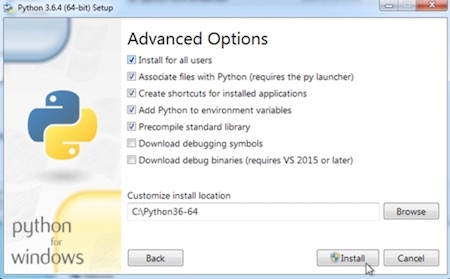
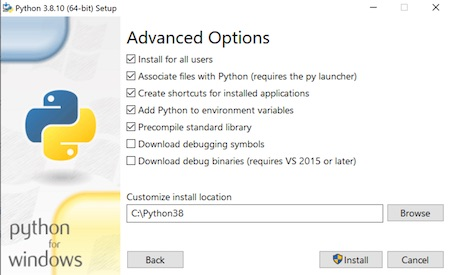
Doc: changes related to the Python version required by the app.

Changed region(s): [[0.0, 0.0, 1.0, 1.0], [0.28, 0.1164, 0.8089, 0.6109], [0.1244, 0.64, 0.1556, 0.6691]]

diff --git a/doc/build-dmt-windows.md b/doc/build-dmt-windows.md
@@ -4,10 +4,10 @@ The following procedure describes the process of building a 64-bit executable fi
 We assume that the procedure is carried out on a clean installation of the operating system, on which you have not previously installed any program used in the procedure (e.g. Python). To avoid any confusion arising from version incompatibilities, any previously installed software should be uninstalled first.
 
 ### Install *Python*
-Python version 3.6 or above is required to build DMT. Download and install Python first as follows:
+Python version 3.8 or above is required to build DMT. Download and install Python first as follows:
 * Open your preferred web browser and go to https://www.python.org/downloads/
 
-* Scroll to the *Looking for a specific release?* section and click the link corresponding to the latest release of the 3.6 version (3.6.4 at the time of writing):
+* Scroll to the *Looking for a specific release?* section and click the link corresponding to the latest release of the 3.8 version (3.8.10 at the time of writing):
 
   ![Download Python](img/build-dmt/bwin-install-python-1.jpg)
 
@@ -17,7 +17,7 @@ Python version 3.6 or above is required to build DMT. Download and install Pytho
 
 * Run the installer
 
-* Check the *Add Python 3.6 to PATH* option and select *Customize installation* link:
+* Check the *Add Python 3.8 to PATH* option and select *Customize installation* link:
 
   ![Install Python - step 1](img/build-dmt/bwin-install-python-3.jpg)
 
@@ -96,15 +96,15 @@ Open the Windows command prompt (*cmd.exe*)  and run the following commands:
 * Create a Python virtual environment for DMT:
 
   ```
-  virtualenv -p c:\Python36-64\python.exe dmt-64
+  virtualenv -p c:\Python38\python.exe dmt
   ```
 
-  The *dmt-64* directory will be created under *C:\projects\virtualenvs*
+  The *dmt* directory will be created under *C:\projects\virtualenvs*
 
 * Activate the new virtual environment:
 
   ```
-  c:\projects\virtualenvs\dmt-64\Scripts\activate.bat
+  c:\projects\virtualenvs\dmt\Scripts\activate.bat
   ```
 
 * Download the DMT source from GitHub:

diff --git a/doc/build-dmt-linux-ubuntu.md b/doc/build-dmt-linux-ubuntu.md
@@ -2,7 +2,8 @@
 
 ### Method based on physical or virtual linux machine
 
-An Ubuntu distribution with Python 3.6 is required to build DMT. This example uses Ubuntu 17.10, which comes with an appropriate version installed by default. You can verify the Python version by typing:
+An Ubuntu distribution with Python 3.8 is required to build DMT. This example uses Ubuntu 18.04, which comes with an 
+appropriate version installed by default. You can verify the Python version by typing:
 
 ```
 python3 --version
@@ -10,20 +11,20 @@ python3 --version
 
 You should see a response similar to the following:
 
-  `Python 3.6.4`
+  `Python 3.8.x`
 
 After making sure that you have the correct Python version, execute the following commands from the terminal:
 
 ```
 [dmt@ubuntu /]# sudo apt-get update
 [dmt@ubuntu /]# sudo apt-get -y upgrade
-[dmt@ubuntu /]# sudo apt-get -y install libudev-dev libusb-1.0-0-dev libfox-1.6-dev autotools-dev autoconf automake libtool libpython3-all-dev python3.6-dev python3-pip git cmake
+[dmt@ubuntu /]# sudo apt-get -y install libudev-dev libusb-1.0-0-dev libfox-1.6-dev autotools-dev autoconf automake libtool libpython3-all-dev python3.8-dev python3-pip git cmake
 [dmt@ubuntu /]# sudo pip3 install virtualenv
 [dmt@ubuntu /]# sudo pip3 install --upgrade pip
 [dmt@ubuntu /]# cd ~
 [dmt@ubuntu /]# mkdir dmt && cd dmt
-[dmt@ubuntu /]# virtualenv -p python3.6 venv
-[dmt@ubuntu /]# . venv/bin/activate
+[dmt@ubuntu /]# virtualenv -p python3.8 venv
+[dmt@ubuntu /]# source venv/bin/activate
 [dmt@ubuntu /]# pip install --upgrade setuptools
 [dmt@ubuntu /]# git clone https://github.com/Bertrand256/dash-masternode-tool
 [dmt@ubuntu /]# cd dash-masternode-tool/

diff --git a/doc/build-dmt-linux-fedora.md b/doc/build-dmt-linux-fedora.md
@@ -13,7 +13,7 @@ Execute the following commands from the terminal:
 [dmt@fedora /]# cd ~
 [dmt@fedora /]# mkdir dmt && cd dmt
 [dmt@fedora /]# virtualenv -p python3 venv
-[dmt@fedora /]# . venv/bin/activate
+[dmt@fedora /]# source venv/bin/activate
 [dmt@fedora /]# pip install --upgrade setuptools
 [dmt@fedora /]# git clone https://github.com/Bertrand256/dash-masternode-tool
 [dmt@fedora /]# cd dash-masternode-tool/
